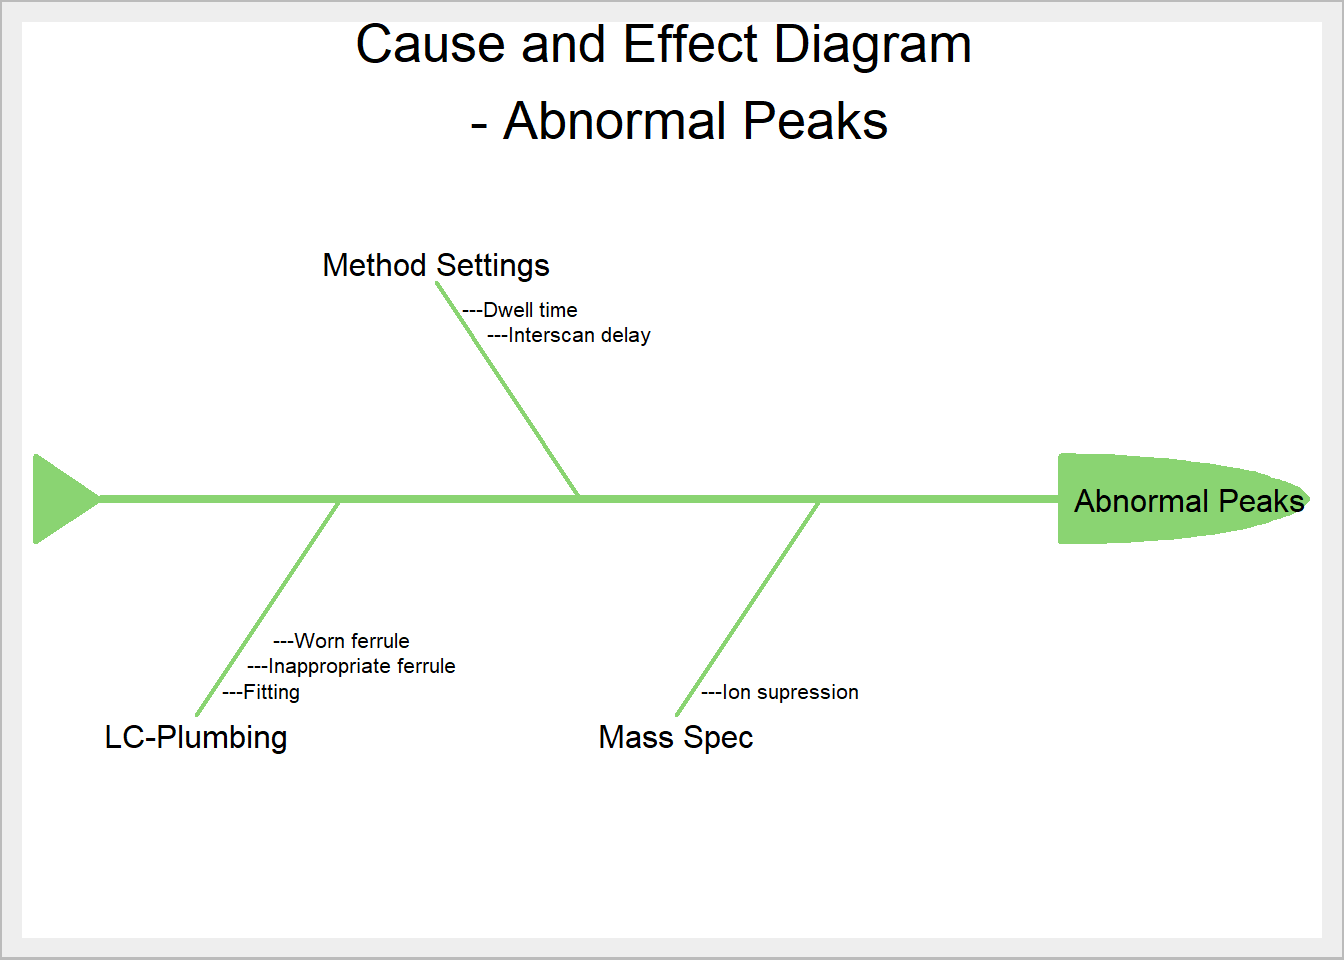
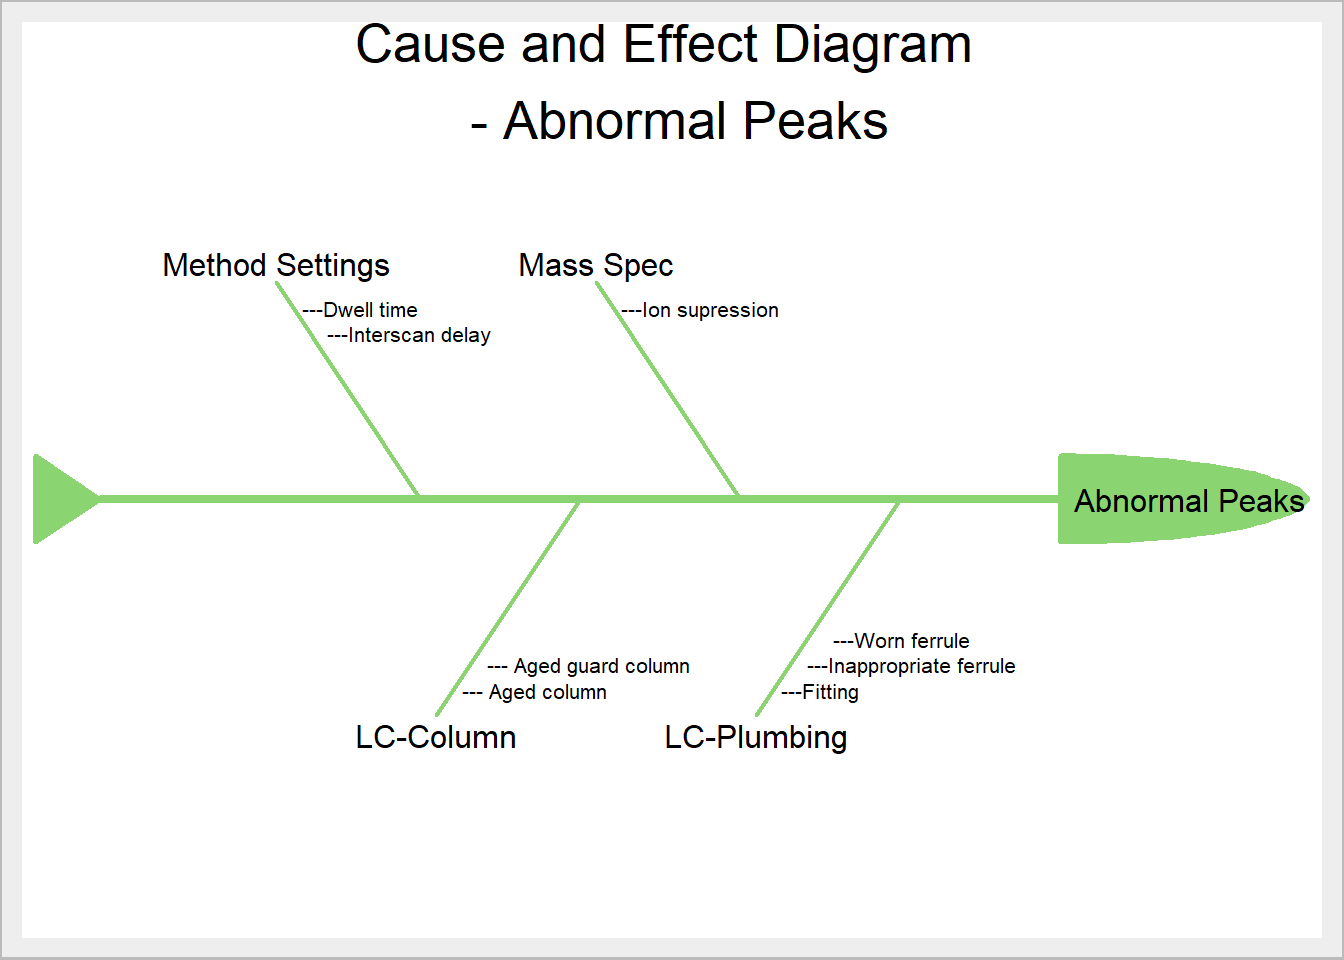
2022.08.27 3:20pm

diff --git a/content/docs/Troubleshooting logbook/Other Peak Problems/04_early_eulting_peak.md b/content/docs/Troubleshooting logbook/Other Peak Problems/04_early_eulting_peak.md
@@ -19,20 +19,27 @@ toc: true
 
 ## Symptom
 <div class = "row">
-<img width ="360" height= "200" src = "/docs/images/Screenshot 2022-08-18 212950.png" style ="float: left" HSPACE="10" VSPACE="10"/>
-Two injections, one from one day and one from the next day, were overlaid on top of each other. If zooming in, the earliest peak of morphine is problematic.  
-It is just affecting the earliest peak.
+<img width ="360" height= "200" src = "/docs/images/Screenshot 2022-08-18 212950.png" style ="float: left" HSPACE="10" VSPACE="10"/>  
+<img width ="360" height= "200" src = "/docs/images/" style ="float: left" HSPACE="10" VSPACE="10"/>
+Here is an extracted ion chromatogram of two low QC injections for an opiates method.  They’re pretty perfectly overlaid except the very first peak.  This peak (in red trace) of one injection is fatter, almost a split peak. It is the morphine peak. The purple peak trace is the morphine peak after fix.  The next two peaks, the hydromorphone, and the oxymorphone, are almost exactly the same.  The earliest peak was distorted.
+
+We truncated the run, we had some dead space in between the peak at about 3.5 minutes and at about 5.5 minutes.  The hash marks is representing the truncation.  
 </div>
 
 ## Troubleshooting Tool and Root Cause
 
-<div class = "row">
-<img width ="360" height= "200" src = "/docs/images/Screenshot 2022-08-18 213225.png" style ="float: left" HSPACE="10" VSPACE="10"/>
-<img width ="360" height= "200" src = "/docs/images/Screenshot 2022-08-18 213647.png" style ="float: left" HSPACE="10" VSPACE="10"/>
-<b>Troubleshooting Tool</b>: Investigation  
+<b>Troubleshooting Tool</b>:    
+1) <b>Q</b>: Check the guard column and column change in the Maintenance Log.  
+<b>A</b>: The guard column was changed just now, no injection on the guard column.  No problem. 
+2) <b>Q</b>: Check the system suitability tests results.    
+<b>A</b>: Morphine was not included in the standard mix, so no result is available.  
+3) We assumed some type of error was created in the column connection when the new guard column was put on. when we took it off, we could see that the ferrule looked worn, tend to be a little bit hard to see. But what happens is the tip of the ferrule narrows, the walls get narrower, and it flares a little bit. And you can see that there’s that dark ring, that’s just indicating that it’s been in contact with the stainless steel. 
 
 <b>Root Cause</b>: A worn ferrule
 
+<div class = "row">
+<img width ="360" height= "200" src = "/docs/images/Screenshot 2022-08-18 213225.png" style ="float: left" HSPACE="10" VSPACE="10"/>
+<img width ="360" height= "200" src = "/docs/images/Screenshot 2022-08-18 213647.png" style ="float: left" HSPACE="10" VSPACE="10"/>
 </div>
 
 *Reference*:  

diff --git a/content/docs/Troubleshooting logbook/Peak Broadening/01_peak_broadening.md b/content/docs/Troubleshooting logbook/Peak Broadening/01_peak_broadening.md
@@ -1,6 +1,6 @@
 ---
 weight: 1
-title: Aged Guard Column Issue
+title: Guard Column Issue
 authors: null
 categories: ["LC: Peak Shape"]
 tags: [Peak Broadening]
@@ -28,7 +28,12 @@ The analyte is Temazepam.  The peak is broadened, almost to split for all three 
 
 <div class = "row">
 
-<b>Troubleshooting Tool</b>: Investigation  
+<b>Troubleshooting Tool</b>: 
+1) <b>Q</b>: Check the Maintenance Log.   
+<b>A</b>: 615 injections.
+2) <b>Q</b>: Check the system suitability tests results.    
+<b>A</b>: They like normal.  
+
 
 <b>Root Cause</b>: The guard column should be replaced at 500 injections, and there were 615 injections on it.  
 
@@ -36,5 +41,6 @@ The analyte is Temazepam.  The peak is broadened, almost to split for all three 
 
 *Reference*:  
 [MSACL: LC-MSMS Troubleshooting 101: Tips and Tricks for Getting Started : PART 1](https://www.msacl.org/index.php?header=Learning_Center&tab=Video_Library&subtab=Search_Video_Library)  
+[MSACL: The Basics of LC-MSMS Troubleshooting: Tools, Strategy, Cases](https://www.msacl.org/index.php?header=Learning_Center&tab=Video_Library&subtab=Search_Video_Library)  
 
-{{< button href="https://troubleshooting-logbook.netlify.app/docs/troubleshooting-logbook/abnormal-peak-shapes/" >}}Return{{< /button >}}
+<button class="button" onclick="history.back()">Go Back</button>

diff --git a/content/docs/Troubleshooting logbook/Fronting Peak/01_fronting_peak.md b/content/docs/Troubleshooting logbook/Fronting Peak/01_fronting_peak.md
@@ -28,12 +28,12 @@ We don't use a guard column.
 ## Troubleshooting Tool and Root Cause
 
 <b>Investigation</b>: 
-1) <b>Q</b>: Check the system suitability tests results.    
-<b>A</b>: They like normal.  
-2) <b>Q</b>: Check the injection record.   
+12) <b>Q</b>: Check the Maintenance Log.   
 <b>A</b>: There were 850 injections and we normally change it at 2500. So it doesn't really look like column degradation.   
-3) <b>Q</b>: Is sample overloaded?   
+2) <b>Q</b>: Is sample overloaded?   
 <b>A</b>: The right volume was injected.  
+3) <b>Q</b>: Check the system suitability tests results.    
+<b>A</b>: They like normal.  
 4) It makes us suspicious of the sample itself. 
 
 <b>Root Cause</b>: Samples were reconstituted with 100% acetonitrile.

diff --git a/content/docs/Troubleshooting logbook/Other Peak Problems/_index.md b/content/docs/Troubleshooting logbook/Other Peak Problems/_index.md
@@ -6,10 +6,10 @@ bookCollapseSection: true
 
 Here is the Cause-Effect diagram for troubleshooting other peak problems.  
 
-<img width ="360" height= "200" src = "/docs/images/Screenshot 2022-08-26 124824.png" style ="float: middle"/>
+<img width ="360" height= "200" src = "/docs/images/Screenshot 2022-08-27 150916.png" style ="float: middle"/>
 
 
-**<font color = "#0000a7">The causes listed in the diagram are elaborated as follows</font>**:
+**<font color = "#0000a7">The causes listed in the diagram were investigated during the troubleshooting</font>**:
 
 {{<section>}}
 

diff --git a/content/docs/Troubleshooting logbook/Poor Sensitivity/_index.md b/content/docs/Troubleshooting logbook/Poor Sensitivity/_index.md
@@ -7,5 +7,5 @@ bookCollapseSection: true
 <img width ="360" height= "200" src = "/docs/images/" style ="float: left"/>
 
 
-**<font color = "#0000a7">The causes listed in the diagram are elaborated as follows</font>**:
+**<font color = "#0000a7">The causes listed in the diagram were investigated during the troubleshooting</font>**:
 {{<section>}}
